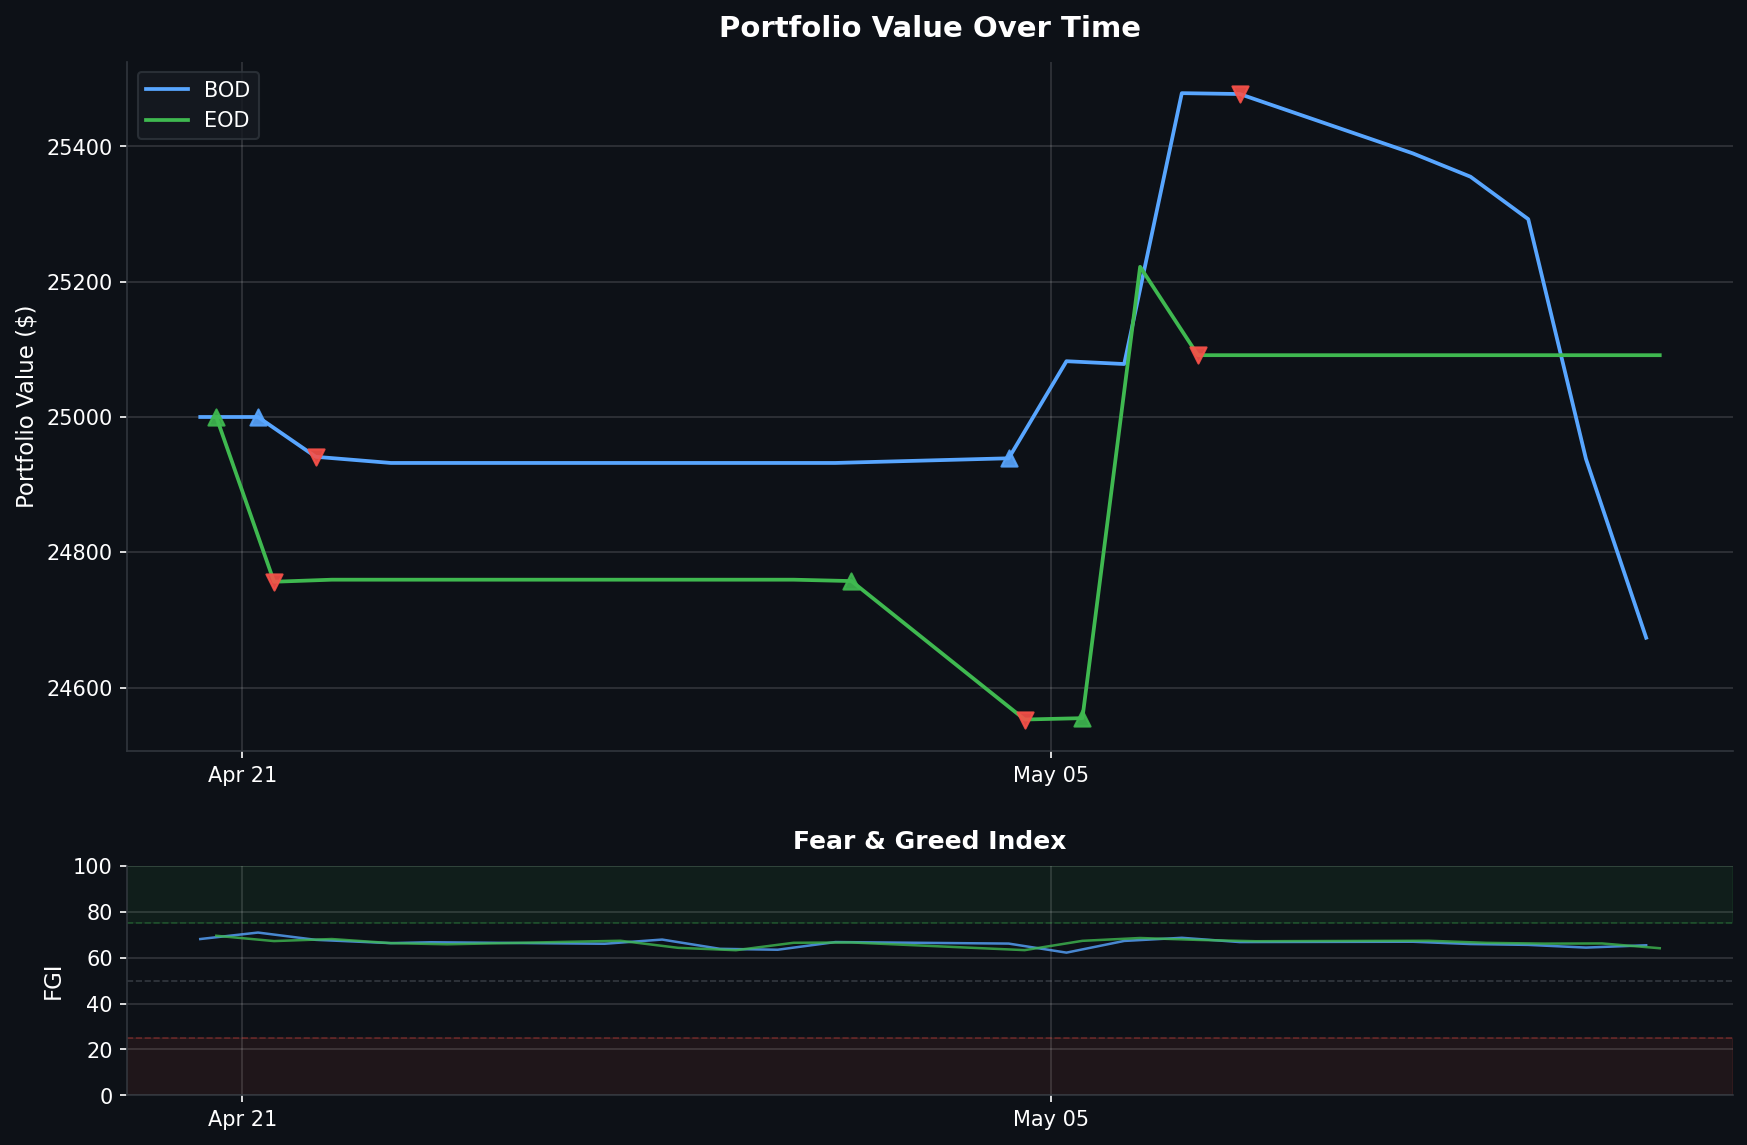
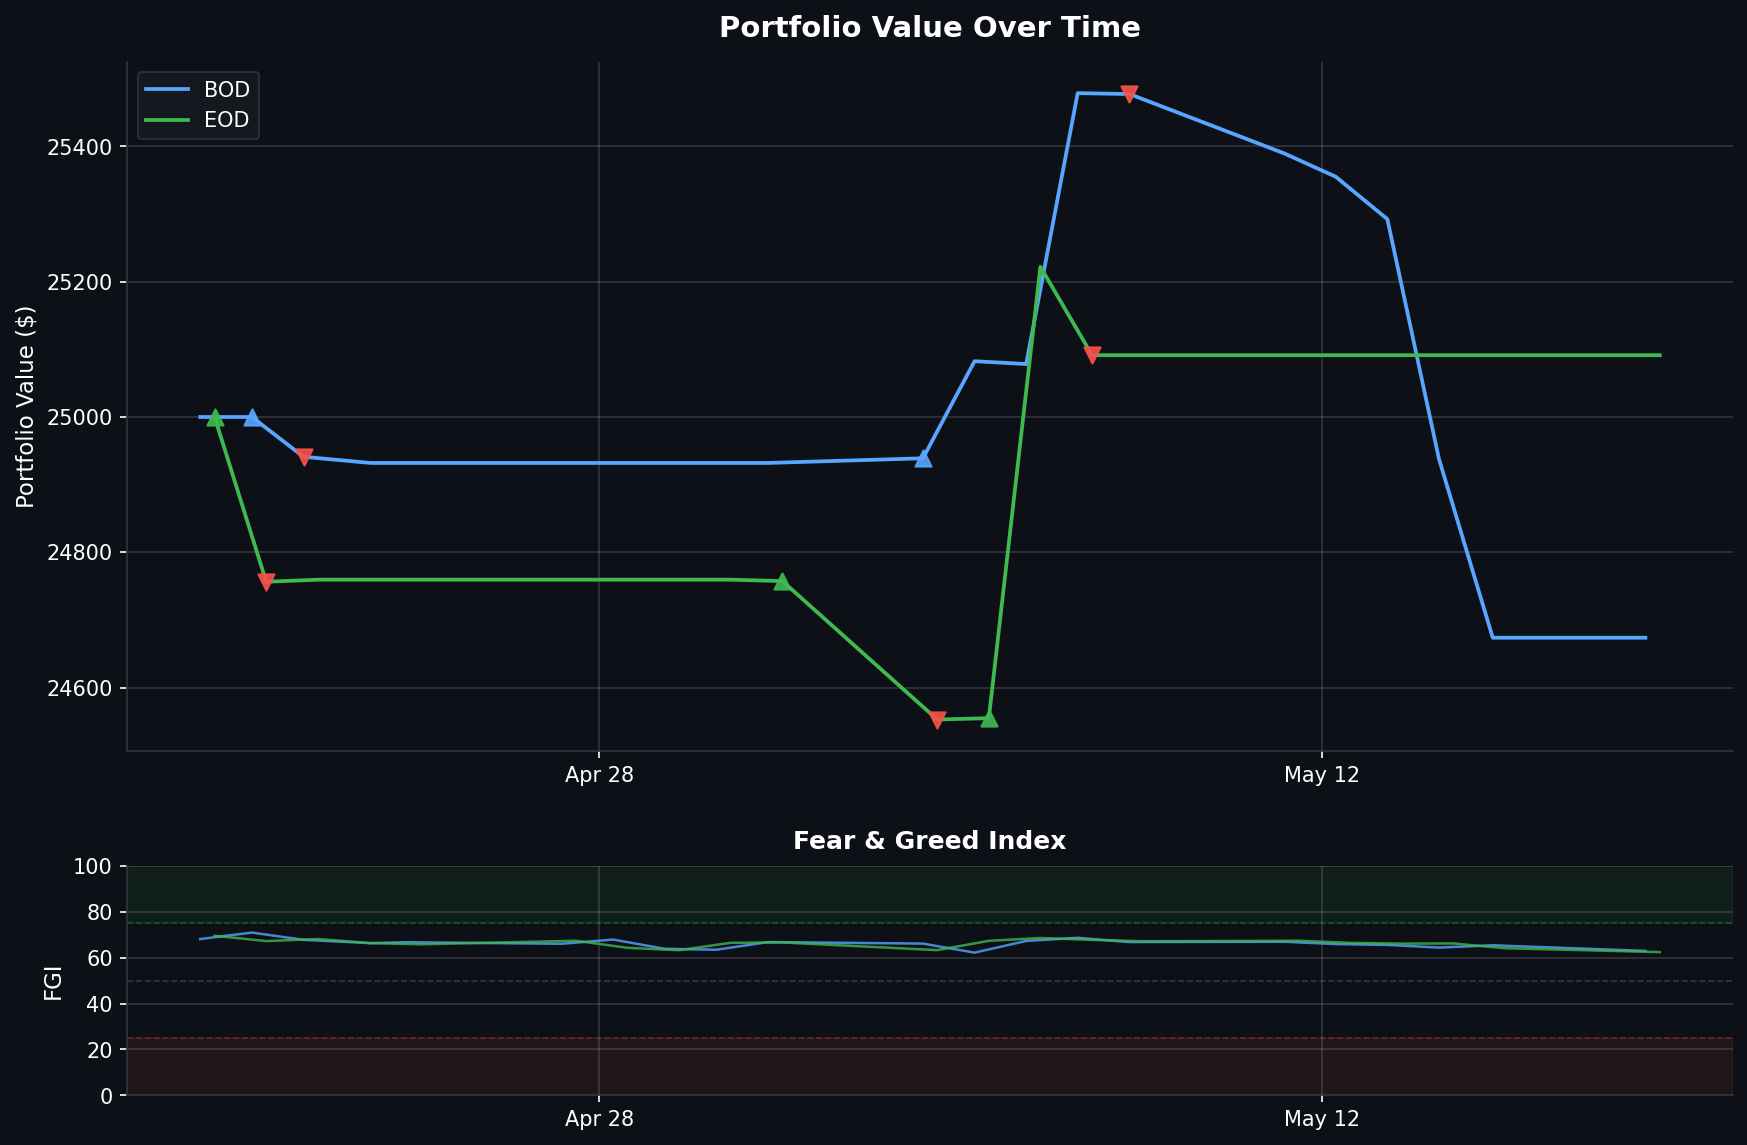
Daily data backup 2026-05-18

diff --git a/README.md b/README.md
@@ -1,6 +1,6 @@
 # Fear & Greed Index Trading Bot
 
-> Dashboard auto-updated daily at market close | Last update: **2026-05-15 13:30 PST**
+> Dashboard auto-updated daily at market close | Last update: **2026-05-18 13:30 PST**
 
 ![Portfolio Performance](assets/portfolio_chart.png)
 
@@ -12,12 +12,12 @@
 |--------|-------|
 | Portfolio Value | **$24,673.63** |
 | Buying Power | $49,347.26 |
-| Current FGI | 65.37 |
+| Current FGI | 62.91 |
 | Position | FLAT |
 | Total P&L | **$+995** |
 | Win Rate | 50% (1W / 1L) |
 | Total Round Trips | 2 |
-| Last Signal | NO_ACTION @ 2026-05-15 07:31 |
+| Last Signal | NO_ACTION @ 2026-05-18 06:30 |
 
 <details>
 <summary>Trade History (2 trades)</summary>
@@ -34,11 +34,11 @@
 
 | Time | Action | Price | FGI | Momentum | Velocity | Volatility | Reason |
 |------|--------|-------|-----|----------|----------|------------|--------|
+| 05-18 06:30 | NO_ACTION | $739.86 | 62.91 | -1.31 | -0.88 | 0.1074 | Insufficient momentum/velocity for entry |
 | 05-15 07:31 | NO_ACTION | $741.51 | 65.37 | 0.28 | -0.18 | 0.0994 | Insufficient momentum/velocity for entry |
 | 05-14 06:30 | NO_ACTION | $743.72 | 64.37 | -0.90 | -0.85 | 0.0979 | SELL order submission failed after 3 attempts: {"code":40010001,"message":"qty must be \u003e 0"} |
 | 05-13 06:30 | NO_ACTION | $738.30 | 65.54 | -0.58 | -0.41 | 0.099 | SELL order submission failed after 3 attempts: {"code":40010001,"message":"qty must be \u003e 0"} |
 | 05-12 06:30 | NO_ACTION | $736.98 | 65.91 | -0.62 | -0.91 | 0.1025 | SELL order submission failed after 3 attempts: {"code":40010001,"message":"qty must be \u003e 0"} |
-| 05-11 06:30 | NO_ACTION | $736.53 | 66.91 | -0.53 | -0.12 | 0.1045 | SELL order submission failed after 3 attempts: {"code":40010001,"message":"qty must be \u003e 0"} |
 
 </details>
 
@@ -50,12 +50,12 @@
 |--------|-------|
 | Portfolio Value | **$25,091.36** |
 | Buying Power | $50,182.72 |
-| Current FGI | 64.09 |
+| Current FGI | 62.4 |
 | Position | FLAT |
 | Total P&L | **$+9** |
 | Win Rate | 33% (1W / 2L) |
 | Total Round Trips | 3 |
-| Last Signal | NO_ACTION @ 2026-05-15 13:10 |
+| Last Signal | NO_ACTION @ 2026-05-18 13:10 |
 
 <details>
 <summary>Trade History (3 trades)</summary>
@@ -73,11 +73,11 @@
 
 | Time | Action | Price | FGI | Momentum | Velocity | Volatility | Reason |
 |------|--------|-------|-----|----------|----------|------------|--------|
+| 05-18 13:10 | NO_ACTION | $738.61 | 62.4 | -1.82 | -1.23 | 0.1074 | Insufficient momentum/velocity for entry |
 | 05-15 13:10 | NO_ACTION | $739.12 | 64.09 | -1.36 | -0.78 | 0.0994 | Insufficient momentum/velocity for entry |
 | 05-14 13:10 | NO_ACTION | $748.17 | 66.17 | -0.06 | -0.39 | 0.0979 | Insufficient momentum/velocity for entry |
 | 05-13 13:10 | NO_ACTION | $742.37 | 66.09 | -0.53 | -0.35 | 0.099 | Insufficient momentum/velocity for entry |
 | 05-12 13:10 | NO_ACTION | $738.17 | 66.43 | -0.54 | -0.43 | 0.1025 | Insufficient momentum/velocity for entry |
-| 05-11 13:10 | NO_ACTION | $739.26 | 67.34 | -0.06 | -0.40 | 0.1045 | Insufficient momentum/velocity for entry |
 
 </details>
 
